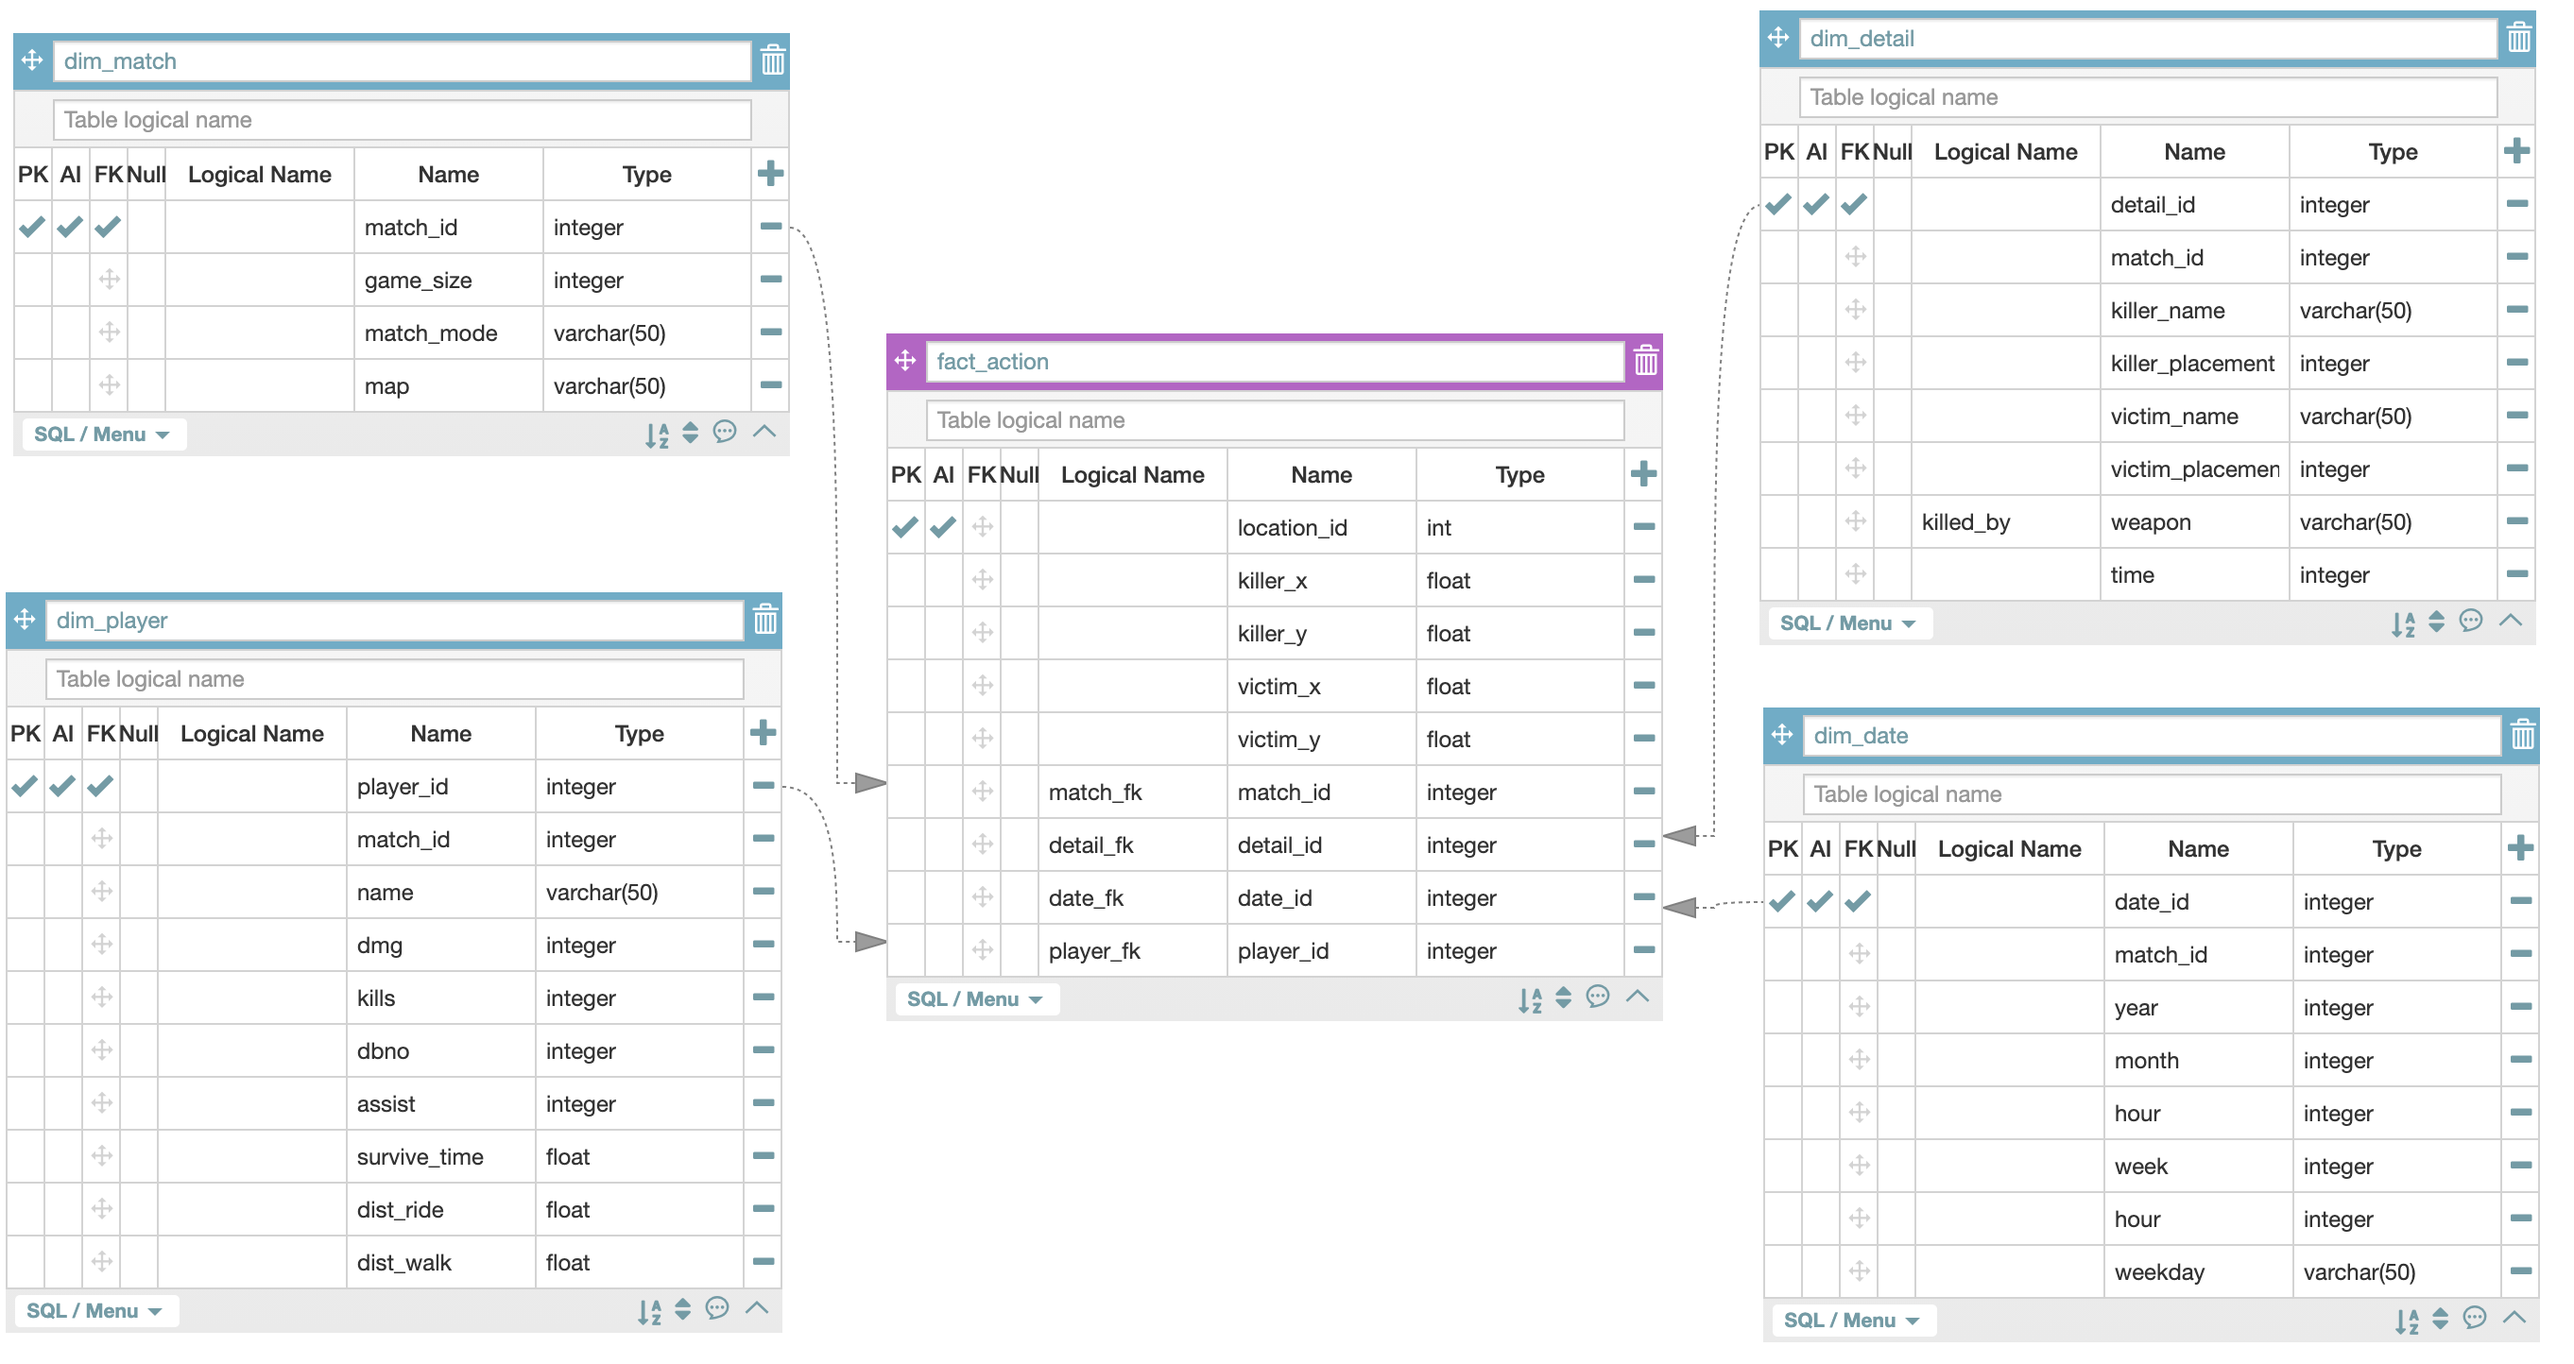
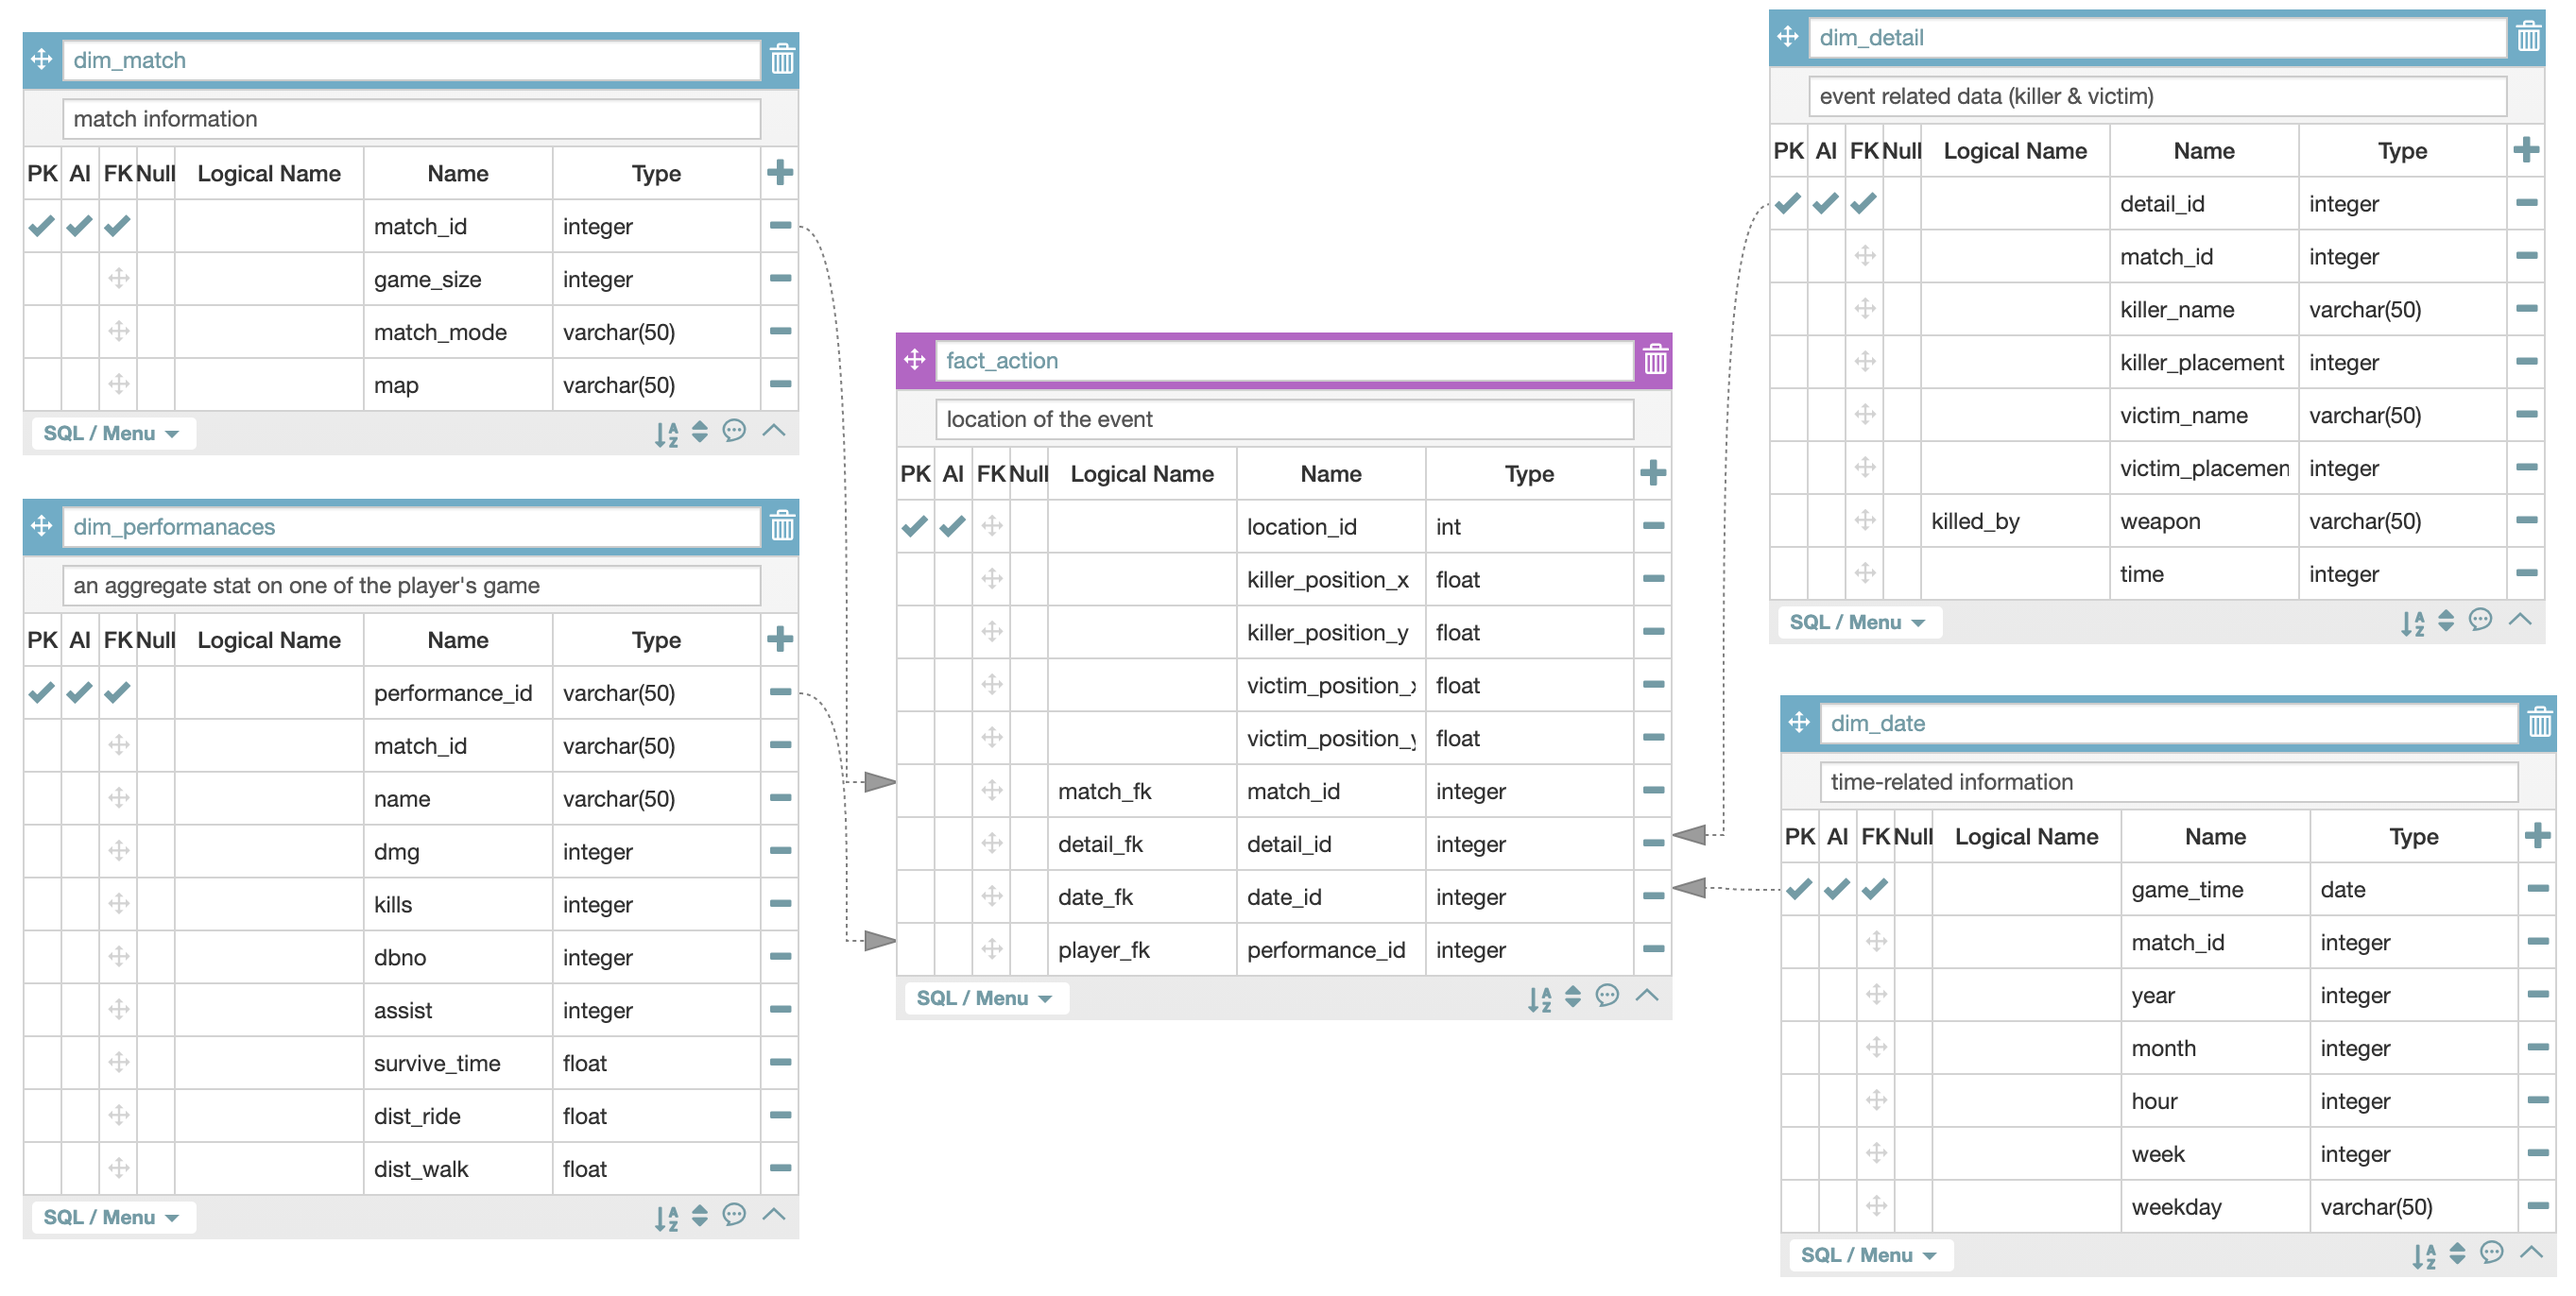
[ADD : KG] added data dictionary, complete.csv, and details to readme

diff --git a/airflow/plugins/operators/quality_check.py b/airflow/plugins/operators/quality_check.py
@@ -57,11 +57,10 @@ class DataQualityCheckOperator(BaseOperator):
                 check[0]
             )
 
-            try:
-                redshift_hook = PostgresHook(self.redshift_conn)
-                result = redshift_hook.run(sql)
-                result == self.expected_result
-                self.log.info('PASSED : {}, Table : {}, Column :  {}'.format(result, check[0], check[1]))
-            except:
-                raise ValueError('FAILED : {} , Table : {}, Column : {}'.format(result, check[0], check[1]))
+            redshift_hook = PostgresHook(self.redshift_conn)
+            result = redshift_hook.get_records(sql)
+            if result[0][0] == self.expected_result:
+                self.log.info('PASSED : {}, {} from {}'.format(result, check[0], check[1]))
+            else:
+                raise ValueError('FAILED : {},{} from {}'.format(result, check[0], check[1]))
 

diff --git a/etl_pubg.py b/etl_pubg.py
@@ -156,8 +156,10 @@ def transform_data(spark, input_path, output_path, hour):
     match_table.write.parquet(match_path, mode='overwrite')
 
     # location star table
+    condition = [kill_df.match_id == agg_df.match_id,
+                 kill_df.killer_name == agg_df.player_name]
     location_table = kill_df \
-            .join(agg_df, kill_df.match_id == agg_df.match_id) \
+            .join(agg_df, condition) \
             .select(
                 monotonically_increasing_id().alias('location_id'),
                 kill_df.killer_position_x,

diff --git a/README.md b/README.md
@@ -31,8 +31,8 @@
 
 ## The reason for each software used
 
-  `Star schema` was picked to provide denomralized table forms for easy table joins. I specifically had the data scientsts & analysts in mid when making modeling. Because all my data are related to the game itself and not to sales or other business metrics.
-  Therefore, `Redshift` was selected because it provides fast reads and easy aggregation by columns. Location data became the fact table since lots of insights can be found by restricting an area of a map. Sample queries can be,
+  `Star schema` was chosen in order to provide denomralized table forms for easy table joins. I specifically had the data scientsts & analysts in mid when making modeling. Because all my data are related to the game itself and not to sales or other business metrics.
+  Therefore, `Redshift` was selected because it provides fast reads and easy aggregation by columns. Location data became the fact table since lots of insights can be found by restricting an area of a map. A sample query to look for insights based on part of the map area can be like as follows,
 ```sql
 SELECT de.weapon, de.time, m.match_id, p.dmg, p.kills
 FROM locations l
@@ -42,14 +42,15 @@ JOIN matches m ON l.match_id = m.match_id
 JOIN performances p ON l.performance_id = p.performance_id
 WHERE l.killer_position_x BETWEEN 2000.0 and 600000.0
 	AND da.month = 10
-LIMIT 5
+LIMIT 3
 ```
   This query results this result for my dataset.
 ![query](images/query.png)
-  (for a complete query, check out the 'complete-.png' in my images folder)
+  (for a result of one complete row, check out the 'complete.csv' in the images folder)
 
   Lastly, `Spark` not only offers an amazing processing speed by using in-memory computation, but contains a machine learning library for data scientists. It can also access directly to S3 buckets for processing, and provides step execution meaning I don't have to keep my EMR cluster alive 24/7 but create them only when I have to use them which is extremely cost-efficient.
   
+  For a complete __**data dictionary**__, click this link. [a relative link](images/data_dictionary.md)
 
 # Airflow task description
 
@@ -75,4 +76,4 @@ LIMIT 5
   - The pipeline can be ran daily at 7am by using the `schedule_interval` argument for the airflow dag. In case of dag failure, it can also be configured to retry as well. The data is stored by date in the S3 bucket for ed users to be sure on the update status.
 
   Q : How do you make your database could be accessed by 100+ people? Can you come up with a more cost-effective approach? Does your project need to support 100+ connections at the same time?
-  Redshift offers 'concurrency scaling' which provides a solution to 'burst read' situations. If configured, it automatically scales the redshift up to 10 clusters which can support more than 100 concurrent connetions. Since my project is mostl for data-scientists or data-analysts who's trying to gather in-game insight rather than BI personnels, there would not be a need for 100+ connections generally.
+ -  Redshift offers 'concurrency scaling' which provides a solution to 'burst read' situations. If configured, it automatically scales the redshift up to 10 clusters which can support more than 100 concurrent connetions. Since my project is mostl for data-scientists or data-analysts who's trying to gather in-game insight rather than BI personnels, there would not be a need for 100+ connections generally.

diff --git a/images/data_dictionary.md b/images/data_dictionary.md
@@ -1,0 +1,56 @@
+## dimension table - match
+column | type | description | sample
+--- | --- | --- | ---
+match_id | string | primary key | 2U4GBNA0Ymk0...
+game_size | integer | number of participants | 48
+match_mode | string | different game modes | tpp 
+
+## dimension table - dates
+column | type | description | sample
+--- | --- | --- | ---
+game_time | datetime | datetime of the match | 2018-01-06 22:54:56
+match_id | string | a distinct value for the match | 2U4GBNA0Ymk0...
+year | integer | year data of the match | 2018
+month | integer | month data of the match | 10
+hour | integer | hour data of the match | 13
+week | integer | week number of the match | 20
+weekday | string | weekday data of the match | 1 (for mondday)
+
+## dimension table - details
+column | type | description | sample
+--- | --- | --- | ---
+detail_id | integer | primary key | 2U4GB1753Maroccockblock 
+match_id | string | a distinct value of the match | 2U4GBNA0Ymk0...
+killer_name | string | killer name of the event | Maroccockblock
+killer_placement | integer | final position of the player | 3
+victim_name | string | victim name of the event | LIONAAAA
+victim_placement | integer | final position of the victim | 5
+weapon | string | weapon name of the event | M16A4
+time | integer | time data of the event (in seconds) | 1753
+
+## dimension table - performances
+column | type | description | sample
+--- | --- | --- | ---
+performance_id | stirng | primary key | 2U4GB-SSniubi
+match_id | string | a distinct value of the match | 2U4GBNA0Ymk0...
+name | string | game name of the player | Maroccockblock
+dmg | integer | total damage dealt in the game | 277
+kills | integer | total kills in the game | 3
+dbno | integer | number of dbno(Down But Not Out) in the game | 1
+assist | integer | totalkill assists in the game | 0
+survive_time | float | survive time in the game in seconds | 250.414
+dist_ride | float | total amount of distance travelled with vehicles | 12.0
+dist_walk | float | total amount of distance travelled by feet | 184.571228
+
+## fact table = location
+column | type | description | sample
+--- | --- | --- | ---
+location_id integer | primary key | 8589962945
+killer_position_x | float | x-axis location of killer (0.0-800000.0) | 0.0
+killer_position_y | float | y-axis location of killer | 500000.0
+victim_position_x | float | x-axis location of victim | 511080.6875
+victim_position_y | float | y-axis location of victim | 614471.3125
+match_id | string | match table foreign key | 2U4GBNA0Ymk0...
+detail_id | string | detail table foreign key | 2U4GB1753Maroccockblock 
+date_id | datetime | date table foreign key | 2018-01-06 22:54:56
+performance_id | string | performance table foreign key | 2U4GB-SSniubi
